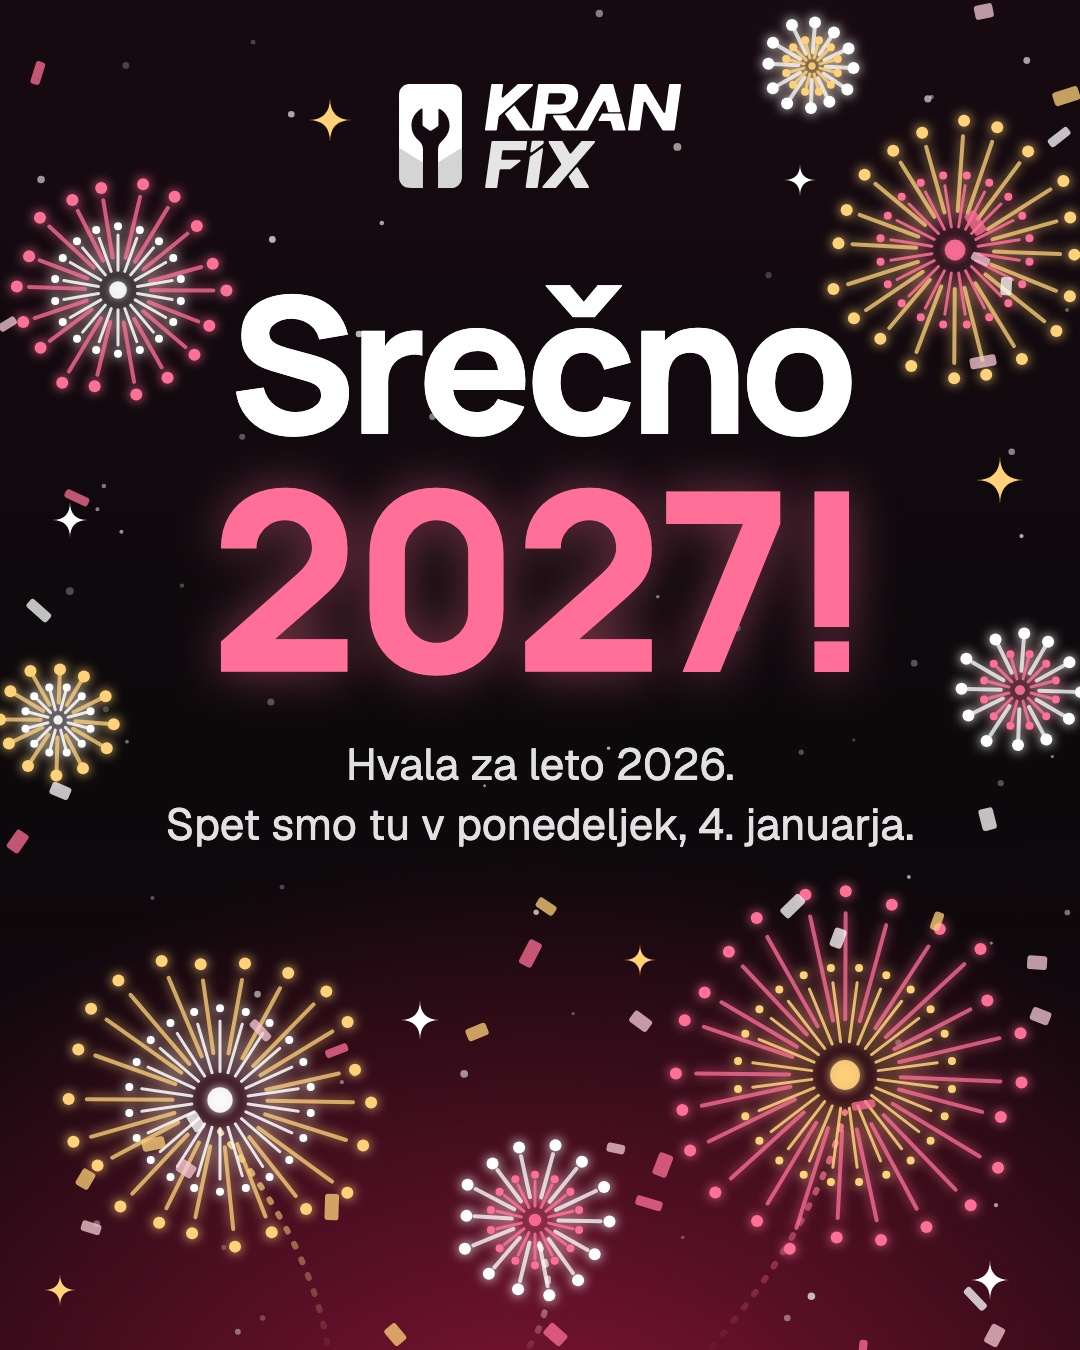
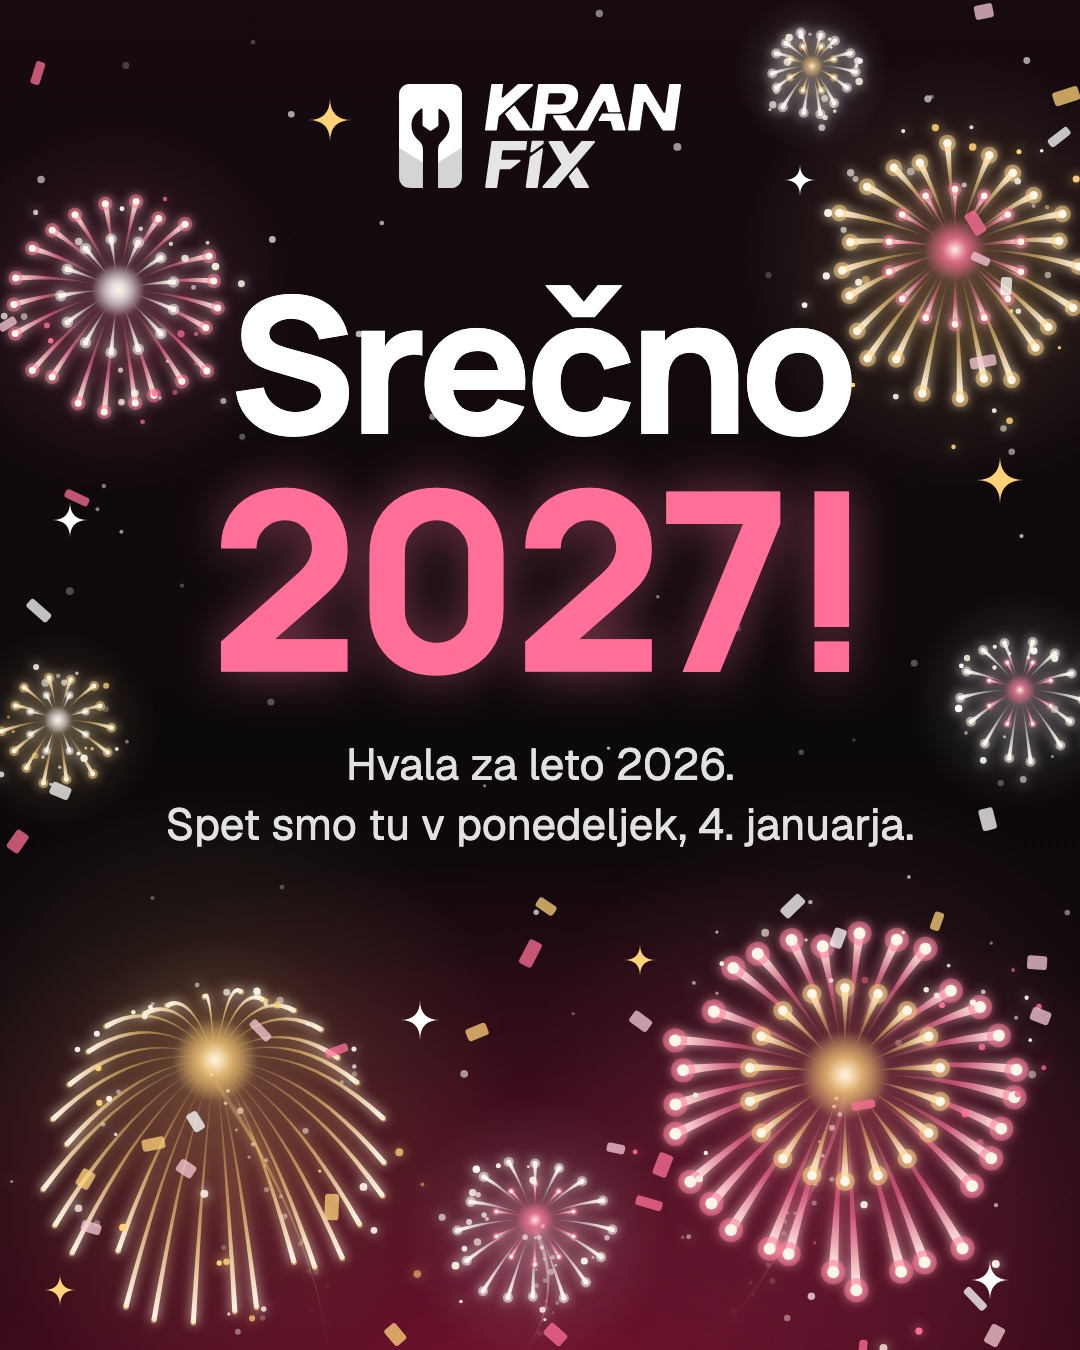
New year image

diff --git a/tools/reel/src/posts/december/Holidays.tsx b/tools/reel/src/posts/december/Holidays.tsx
@@ -511,6 +511,8 @@ export const Christmas = () => (
 
 const GOLD = "#ffd27a";
 const ROSE = "#ff6f97";
+/** The white-hot head of a burning star. */
+const HOT = "#fff6e8";
 
 type Firework = {
   readonly cx: number;
@@ -519,81 +521,207 @@ type Firework = {
   readonly color: string;
   readonly inner: string;
   readonly rays: number;
+  /** A willow's stars fall in long, thin golden arcs; a peony (the default) keeps its round shape. */
+  readonly kind?: "peony" | "willow";
   /** Where its rocket left the ground; no trail if absent. */
   readonly from?: number;
 };
 
-/** One burst: long rays ending in sparks, a shorter inner ring and a glowing core. */
-const Burst = ({ cx, cy, r, color, inner, rays }: Firework) => (
-  <g filter="url(#glow)">
-    {Array.from({ length: rays }, (_, i) => {
-      const angle = (i / rays) * Math.PI * 2 + random(`a-${cx}-${i}`) * 0.08;
-      const reach = r * (0.86 + random(`l-${cx}-${i}`) * 0.14);
-      const cos = Math.cos(angle);
-      const sin = Math.sin(angle);
+type Point = { readonly x: number; readonly y: number };
 
-      return (
-        <g key={i}>
-          <line
-            x1={cx + cos * r * 0.3}
-            y1={cy + sin * r * 0.3}
-            x2={cx + cos * reach * 0.88}
-            y2={cy + sin * reach * 0.88}
-            stroke={color}
-            strokeWidth={4}
-            strokeLinecap="round"
-            opacity={0.75}
-          />
-          <circle cx={cx + cos * reach} cy={cy + sin * reach} r={6} fill={color} />
-        </g>
-      );
-    })}
-    {Array.from({ length: rays }, (_, i) => {
-      const angle = ((i + 0.5) / rays) * Math.PI * 2;
-      const cos = Math.cos(angle);
-      const sin = Math.sin(angle);
+/**
+ * Where one star flies: thrown out from the centre at `angle` and pulled down by `gravity`
+ * (in burst radii), sampled from `t0` (the faint end of its tail) to 1 (its head).
+ */
+const flight = (
+  centre: Point,
+  reach: number,
+  angle: number,
+  gravity: number,
+  t0: number,
+): Point[] =>
+  Array.from({ length: 13 }, (_, k) => {
+    const t = t0 + ((1 - t0) * k) / 12;
+    return {
+      x: centre.x + Math.cos(angle) * reach * t,
+      y: centre.y + Math.sin(angle) * reach * t + 0.5 * gravity * reach * t * t,
+    };
+  });
 
-      return (
-        <g key={`in-${i}`}>
-          <line
-            x1={cx + cos * r * 0.18}
-            y1={cy + sin * r * 0.18}
-            x2={cx + cos * r * 0.5}
-            y2={cy + sin * r * 0.5}
-            stroke={inner}
-            strokeWidth={3}
-            strokeLinecap="round"
-            opacity={0.85}
-          />
-          <circle cx={cx + cos * r * 0.58} cy={cy + sin * r * 0.58} r={4} fill={inner} />
-        </g>
-      );
-    })}
-    <circle cx={cx} cy={cy} r={r * 0.08} fill={inner} opacity={0.9} />
-  </g>
-);
+/** A ribbon along the points, a hair at the tail and `width` at the head, as one closed path. */
+const ribbon = (points: readonly Point[], width: number) => {
+  const last = points.length - 1;
+  const side = (sign: number) =>
+    points.map((p, k) => {
+      const a = points[Math.max(0, k - 1)];
+      const b = points[Math.min(last, k + 1)];
+      const len = Math.hypot(b.x - a.x, b.y - a.y) || 1;
+      const half = (width / 2) * (0.1 + 0.9 * (k / last) ** 1.4) * sign;
+      return `${(p.x - ((b.y - a.y) / len) * half).toFixed(1)},${(p.y + ((b.x - a.x) / len) * half).toFixed(1)}`;
+    });
+  return `M${side(1).join(" L")} L${side(-1).reverse().join(" L")} Z`;
+};
 
-/** The rocket's climb: a dotted, slightly curved line that fades out towards the ground. */
-const Trail = ({ cx, cy, r, color, from }: Firework) => {
-  if (from === undefined) return null;
-  const id = `trail-${cx}`;
-  const bottom = POST.height + 10;
-  const endY = cy + r * 0.2;
+/** One star: a tapered tail that fades in towards a white-hot head with a coloured halo. */
+const Streak = ({
+  id,
+  points,
+  color,
+  width,
+  head = 1,
+}: {
+  readonly id: string;
+  readonly points: readonly Point[];
+  readonly color: string;
+  readonly width: number;
+  /** Size of the head against the tail; willow stars have almost burnt out. */
+  readonly head?: number;
+}) => {
+  const tail = points[0];
+  const tip = points[points.length - 1];
 
   return (
     <g>
-      <linearGradient id={id} gradientUnits="userSpaceOnUse" x1={0} y1={bottom} x2={0} y2={endY}>
+      <linearGradient
+        id={id}
+        gradientUnits="userSpaceOnUse"
+        x1={tail.x}
+        y1={tail.y}
+        x2={tip.x}
+        y2={tip.y}
+      >
         <stop offset="0" stopColor={color} stopOpacity={0} />
-        <stop offset="1" stopColor={color} stopOpacity={0.9} />
+        <stop offset="0.55" stopColor={color} stopOpacity={0.55} />
+        <stop offset="1" stopColor={HOT} stopOpacity={1} />
       </linearGradient>
-      <path
-        d={`M${from},${bottom} Q${(from + cx) / 2 + 40},${(bottom + endY) / 2} ${cx},${endY}`}
-        stroke={`url(#${id})`}
-        strokeWidth={6}
-        strokeLinecap="round"
-        strokeDasharray="3 14"
-        fill="none"
-      />
+      <path d={ribbon(points, width)} fill={`url(#${id})`} />
+      {head > 0 ? (
+        <>
+          <circle cx={tip.x} cy={tip.y} r={width * 1.25 * head} fill={color} opacity={0.5} />
+          <circle cx={tip.x} cy={tip.y} r={width * 0.62 * head} fill={HOT} />
+        </>
+      ) : null}
+    </g>
+  );
+};
+
+/**
+ * One burst, drawn like a real shell: a soft light on the sky, an outer ring of stars that droop
+ * as they fall, an inner ring in a second colour, a flash at the centre and crackling glitter.
+ */
+const Burst = ({ cx, cy, r, color, inner, rays, kind = "peony" }: Firework) => {
+  const key = `${cx}-${cy}`;
+  const willow = kind === "willow";
+  const width = Math.max(4, r * (willow ? 0.03 : 0.052));
+  const innerRays = Math.round(rays * 0.6);
+
+  return (
+    <g>
+      <radialGradient id={`bloom-${key}`}>
+        <stop offset="0" stopColor={color} stopOpacity={0.3} />
+        <stop offset="0.5" stopColor={color} stopOpacity={0.08} />
+        <stop offset="1" stopColor={color} stopOpacity={0} />
+      </radialGradient>
+      <radialGradient id={`flash-${key}`}>
+        <stop offset="0" stopColor={HOT} stopOpacity={0.95} />
+        <stop offset="0.4" stopColor={inner} stopOpacity={0.5} />
+        <stop offset="1" stopColor={inner} stopOpacity={0} />
+      </radialGradient>
+      <circle cx={cx} cy={cy + r * 0.15} r={r * 1.7} fill={`url(#bloom-${key})`} />
+      <g filter="url(#glow)">
+        {Array.from({ length: rays }, (_, i) => {
+          const angle = (i / rays) * Math.PI * 2 + (random(`a-${key}-${i}`) - 0.5) * 0.12;
+          const reach = r * (0.82 + random(`l-${key}-${i}`) * 0.18);
+          return (
+            <Streak
+              key={i}
+              id={`s-${key}-${i}`}
+              points={flight({ x: cx, y: cy }, reach, angle, willow ? 1.15 : 0.34, willow ? 0.04 : 0.22)}
+              color={color}
+              width={width}
+              head={willow ? 0.45 : 1}
+            />
+          );
+        })}
+        {willow
+          ? null
+          : Array.from({ length: innerRays }, (_, i) => {
+              const angle = ((i + 0.5) / innerRays) * Math.PI * 2;
+              return (
+                <Streak
+                  key={`in-${i}`}
+                  id={`si-${key}-${i}`}
+                  points={flight({ x: cx, y: cy }, r * 0.52, angle, 0.2, 0.3)}
+                  color={inner}
+                  width={width * 0.8}
+                />
+              );
+            })}
+        <circle cx={cx} cy={cy} r={r * 0.24} fill={`url(#flash-${key})`} />
+        {Array.from({ length: Math.round(rays * 1.3) }, (_, i) => {
+          const angle = random(`g-a-${key}-${i}`) * Math.PI * 2;
+          const t = 0.55 + random(`g-d-${key}-${i}`) * 0.7;
+          const fall = willow ? 1.15 : 0.34;
+          const x = cx + Math.cos(angle) * r * t;
+          const y = cy + Math.sin(angle) * r * t + 0.5 * fall * r * t * t;
+          return (
+            <circle
+              key={`g-${i}`}
+              cx={x}
+              cy={y}
+              r={1.4 + random(`g-r-${key}-${i}`) * 2.6}
+              fill={i % 3 === 0 ? color : HOT}
+              opacity={0.45 + random(`g-o-${key}-${i}`) * 0.55}
+            />
+          );
+        })}
+      </g>
+    </g>
+  );
+};
+
+/** The rocket's climb: a tapered, curving spark trail that fades out towards the ground. */
+const Trail = ({ cx, cy, r, color, from }: Firework) => {
+  if (from === undefined) return null;
+  const key = `${cx}-${cy}`;
+  const bottom = POST.height + 10;
+  const end = { x: cx, y: cy + r * 0.12 };
+  const bend = (from + cx) / 2 + 40;
+  const points = Array.from({ length: 25 }, (_, k) => {
+    const t = k / 24;
+    const u = 1 - t;
+    return {
+      x: u * u * from + 2 * u * t * bend + t * t * end.x,
+      y: u * u * bottom + 2 * u * t * ((bottom + end.y) / 2) + t * t * end.y,
+    };
+  });
+
+  return (
+    <g filter="url(#glow)">
+      {/* Dimmer than the stars, so the climb does not read as one more streak of the burst. */}
+      <linearGradient
+        id={`trail-${key}`}
+        gradientUnits="userSpaceOnUse"
+        x1={0}
+        y1={bottom}
+        x2={0}
+        y2={end.y}
+      >
+        <stop offset="0" stopColor={color} stopOpacity={0} />
+        <stop offset="0.8" stopColor={color} stopOpacity={0.45} />
+        <stop offset="1" stopColor={color} stopOpacity={0.1} />
+      </linearGradient>
+      <path d={ribbon(points, 4.5)} fill={`url(#trail-${key})`} />
+      {points.slice(4).map((p, k) => (
+        <circle
+          key={k}
+          cx={p.x + (random(`tx-${key}-${k}`) - 0.5) * 26}
+          cy={p.y + (random(`ty-${key}-${k}`) - 0.5) * 18}
+          r={1.2 + random(`tr-${key}-${k}`) * 2}
+          fill={HOT}
+          opacity={(k / points.length) * 0.9}
+        />
+      ))}
     </g>
   );
 };
@@ -618,14 +746,14 @@ const Sparkle = ({
 
 /** Kept clear of the logo and the headline; the big ones rise from the bottom edge. */
 const FIREWORKS: readonly Firework[] = [
-  { cx: 118, cy: 290, r: 110, color: ROSE, inner: brand.white, rays: 18 },
-  { cx: 955, cy: 250, r: 130, color: GOLD, inner: ROSE, rays: 20 },
-  { cx: 220, cy: 1100, r: 158, color: GOLD, inner: brand.white, rays: 22, from: 330 },
-  { cx: 845, cy: 1075, r: 186, color: ROSE, inner: GOLD, rays: 24, from: 700 },
-  { cx: 535, cy: 1220, r: 78, color: brand.white, inner: ROSE, rays: 14, from: 520 },
-  { cx: 812, cy: 66, r: 46, color: brand.white, inner: GOLD, rays: 12 },
-  { cx: 1020, cy: 690, r: 64, color: brand.white, inner: ROSE, rays: 12 },
-  { cx: 58, cy: 720, r: 58, color: GOLD, inner: brand.white, rays: 12 },
+  { cx: 118, cy: 290, r: 110, color: ROSE, inner: brand.white, rays: 22 },
+  { cx: 955, cy: 250, r: 130, color: GOLD, inner: ROSE, rays: 24 },
+  { cx: 215, cy: 1060, r: 175, color: GOLD, inner: GOLD, rays: 30, kind: "willow", from: 330 },
+  { cx: 845, cy: 1075, r: 186, color: ROSE, inner: GOLD, rays: 30, from: 700 },
+  { cx: 535, cy: 1220, r: 78, color: brand.white, inner: ROSE, rays: 16, from: 520 },
+  { cx: 812, cy: 66, r: 46, color: brand.white, inner: GOLD, rays: 14 },
+  { cx: 1020, cy: 690, r: 64, color: brand.white, inner: ROSE, rays: 14 },
+  { cx: 58, cy: 720, r: 58, color: GOLD, inner: brand.white, rays: 14 },
 ];
 
 const CONFETTI_COLORS = [ROSE, GOLD, brand.white, PINK];

diff --git a/tools/reel/README.md b/tools/reel/README.md
@@ -164,11 +164,10 @@ Remotion's agent skills are in this repo's `.claude/skills/remotion-*` (listed i
 
 ```bash
 ./render-posts.sh Nov                    # every still dated November → out/posts/<id>.png
-npx remotion still Dec03-GiveawayWinnerStory out/posts/Dec03-GiveawayWinnerStory.png --props='{"winner":"@ana.novak"}'
 ./render-posts.sh Dec                    # every still dated December
 npx remotion still Dec21-HolidayHours out/posts/Dec21-HolidayHours.png --props='{"dec24":["09:00 – 12:00"],"dec31":[]}'   # [] = closed
 ```
 
-Two stills are templates with placeholders until their props are known: the giveaway winner on 3 Dec (`winner`) and the hours for 24 and 31 Dec, which default to the normal Thursday. The Christmas and New Year cards (`Holidays.tsx`) are full-bleed, unlike the white posts: crimson with presents, baubles and snow, and a night sky with fireworks, each with the light logo on top. Every decoration is SVG drawn in the file, and the scattered snow, stars and confetti use Remotion's seeded `random()`, so re-renders match. `Dec12-Battery-*` uses the same cropped window as the camera slides: `service-battery-fixed.png` is a 1.34× closer crop of the phone, so the two are scaled to the same body width (see `BATTERY_BEFORE` / `BATTERY_AFTER`).
+The giveaway winner Story on 3 Dec has no name in it: it leaves an empty space under "prejme:", where the owner adds the winner as a Mention sticker in Instagram (tappable, and it notifies them); the steps are on the posting timeline. `Dec21-HolidayHours` is a template whose hours for 24 and 31 Dec default to the normal Thursday; it was dropped from the timeline on 18 Nov 2026, but the still is kept for next year. The Christmas and New Year cards (`Holidays.tsx`) are full-bleed, unlike the white posts: crimson with presents, baubles and snow, and a night sky with fireworks, each with the light logo on top. The fireworks are drawn like real shells: each star is a tapered ribbon along a falling arc (`flight`, `ribbon`, `Streak`) with a white-hot head, peonies have an inner ring in a second colour, the bottom-left one is a golden willow whose stars hang in long arcs, and each burst has glitter and a soft light on the sky. Every decoration is SVG drawn in the file, and the scattered snow, stars and confetti use Remotion's seeded `random()`, so re-renders match. `Dec12-Battery-*` uses the same cropped window as the camera slides: `service-battery-fixed.png` is a 1.34× closer crop of the phone, so the two are scaled to the same body width (see `BATTERY_BEFORE` / `BATTERY_AFTER`).
 
 The product shots in `apps/webshop/public/home/` sit on near-white, so `Photo` lifts them 3 % and multiplies them into the page; without that they show a grey box. Story content stays between y 380 and 1560, clear of Instagram's top bar and reply field. The repair steps in `Dec03-Process-*` are copied from `apps/webshop/components/home/process-section.tsx`: update both if they change.

diff --git a/.claude/skills/posting-timeline/posts.md b/.claude/skills/posting-timeline/posts.md
@@ -58,7 +58,7 @@ Greeting posts are the one place to leave the white page. Kranfix's Christmas an
 - **Full bleed in the brand colour or a night sky**, not `PostFrame`. Christmas: a crimson radial gradient. New Year: near-black with a crimson glow at the bottom.
 - **The logo big on top**: `<Logo height={104} tone="onDark" />`, centred above the headline. No footer logo; the address can sit small at the bottom (on the snow).
 - **Headline centred**, two lines, white and a light tint of the brand colour (`#ffd3df` on crimson, `#ff6f97` with a soft `textShadow` glow on night).
-- **Motifs drawn in SVG in the file**, so they stay in the brand's colours and need no stock images: presents (box, lid, ribbon, bow, dots or stripes, a gift tag with the logo mark), baubles on strings, snowflakes and soft flakes, a snowdrift; fireworks bursts (rays ending in sparks, an inner ring, a blur `filter` for glow), dotted rocket trails rising from the bottom edge, confetti and four-point sparkles.
+- **Motifs drawn in SVG in the file**, so they stay in the brand's colours and need no stock images: presents (box, lid, ribbon, bow, dots or stripes, a gift tag with the logo mark), baubles on strings, snowflakes and soft flakes, a snowdrift; fireworks drawn like real shells (each star a tapered ribbon along a falling arc with a white-hot head, an inner ring in a second colour, a golden willow, glitter, a soft light on the sky; straight rays ending in dots looked like clip art and were redone), faint rocket trails rising from the bottom edge, confetti and four-point sparkles.
 - **Seeded randomness**: scatter snow, stars and confetti with Remotion's `random("<seed>")`, never `Math.random()`, so every render is the same.
 - **Keep motifs off the logo and the headline**: place the big elements by hand around the text, and skip scattered pieces inside the text's box.
 - **Check contrast against the background, not just the white page**: a crimson bow on a crimson background disappears. On crimson use white, pink, ink or a deep wine (`#6e0d29`) for ribbons and bows.
